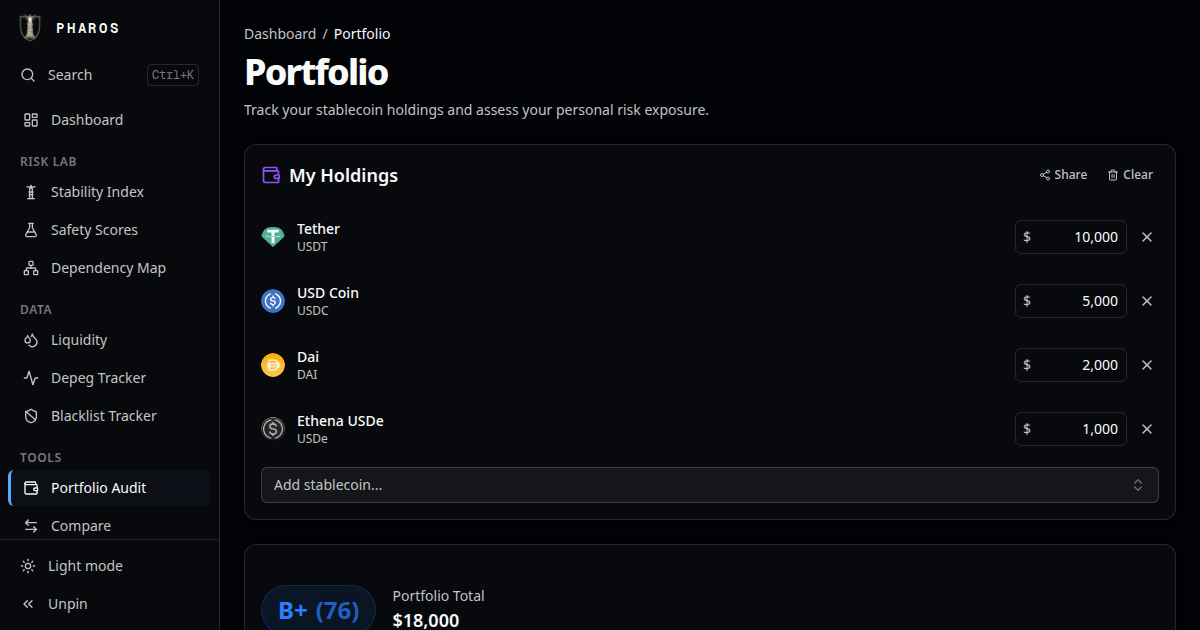
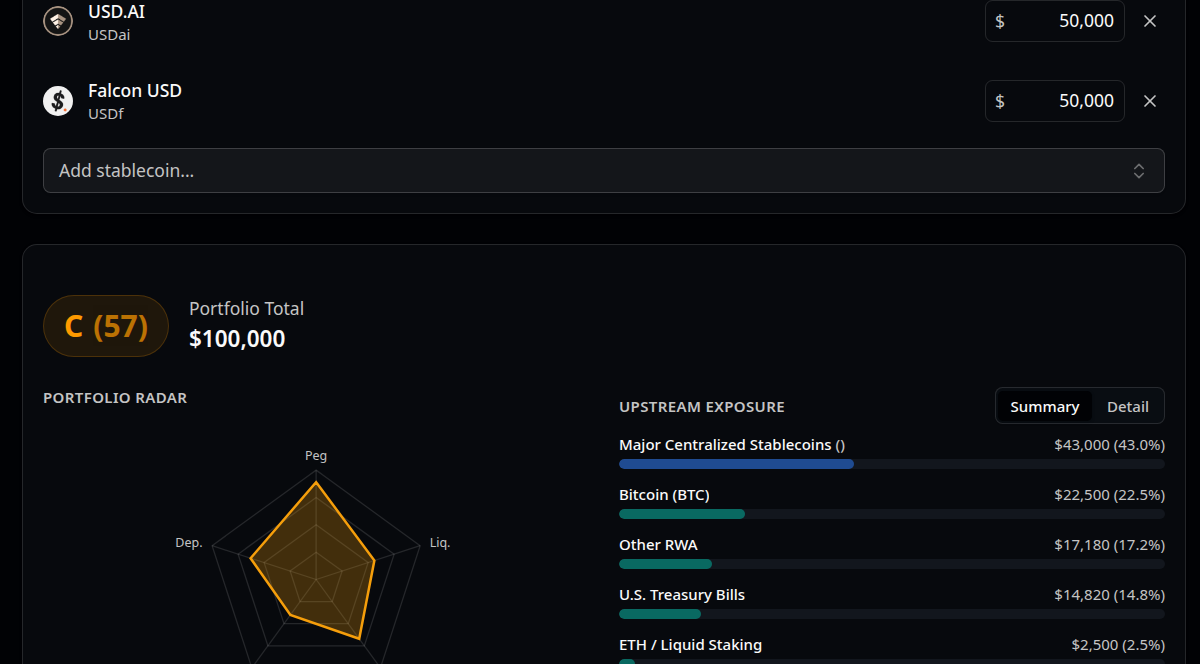
Docs organization

diff --git a/src/lib/__tests__/dews-radar-utils.test.ts b/src/lib/__tests__/dews-radar-utils.test.ts
@@ -3,6 +3,7 @@ import { describe, it, expect } from "vitest";
 import {
   scoreToRadius,
   deterministicOffset,
+  deterministicRadiusOffset,
   distributeAngles,
   highestBand,
   sweepDuration,

diff --git a/docs/plans/implemented/2026-03-02-feature-status-badge.md b/docs/plans/implemented/2026-03-02-feature-status-badge.md
@@ -1,0 +1,257 @@
+# Feature Status Badge Implementation Plan
+
+> **For Claude:** REQUIRED SUB-SKILL: Use superpowers:executing-plans to implement this plan task-by-task.
+
+**Goal:** Add a visible "Feature Status" badge (Mature / Experimental / Testing in Prod) inline next to the h1 title on 10 feature pages, with an optional version badge for /safety-scores.
+
+**Architecture:** Single shared `FeatureStatusBadge` component accepts `status` and optional `version` props. Each page imports it and renders it inline inside the h1 element (h1 becomes a flex container). No runtime logic — all status values are static strings baked into each page at build time.
+
+**Tech Stack:** React 19, TypeScript strict, Tailwind CSS v4, shadcn/ui `Badge` component.
+
+---
+
+## Status Reference
+
+| Page | File | Status | Version |
+|---|---|---|---|
+| `/stability-index` | `src/app/stability-index/page.tsx:39` | `mature` | — |
+| `/safety-scores` | `src/app/safety-scores/page.tsx:42` | `mature` | `v5.4` |
+| `/dependency-map` | `src/app/dependency-map/page.tsx:40` | `experimental` | — |
+| `/liquidity` | `src/app/liquidity/page.tsx:42` | `mature` | — |
+| `/depeg` | `src/app/depeg/page.tsx:77` | `mature` | — |
+| `/blacklist` | `src/app/blacklist/page.tsx:82` | `mature` | — |
+| `/portfolio` | `src/app/portfolio/page.tsx:40` | `experimental` | — |
+| `/compare` | `src/app/compare/page.tsx:50` | `mature` | — |
+| `/yield` | `src/app/yield/page.tsx:76` | `testing-in-prod` | — |
+| `/flows` | `src/app/flows/page.tsx:42` | `testing-in-prod` | — |
+
+---
+
+### Task 1: Create FeatureStatusBadge component
+
+**Files:**
+- Create: `src/components/feature-status-badge.tsx`
+
+**Step 1: Create the component**
+
+```tsx
+import { Badge } from "@/components/ui/badge";
+
+type FeatureStatus = "mature" | "experimental" | "testing-in-prod";
+
+const STATUS_CONFIG: Record<FeatureStatus, { label: string; className: string }> = {
+  mature: {
+    label: "Mature",
+    className:
+      "bg-emerald-500/15 text-emerald-700 border-emerald-500/30 dark:text-emerald-400 dark:border-emerald-500/40",
+  },
+  experimental: {
+    label: "Experimental",
+    className:
+      "bg-amber-500/15 text-amber-700 border-amber-500/30 dark:text-amber-400 dark:border-amber-500/40",
+  },
+  "testing-in-prod": {
+    label: "Testing in Prod",
+    className:
+      "bg-orange-500/15 text-orange-700 border-orange-500/30 dark:text-orange-400 dark:border-orange-500/40",
+  },
+};
+
+interface FeatureStatusBadgeProps {
+  status: FeatureStatus;
+  version?: string;
+}
+
+export function FeatureStatusBadge({ status, version }: FeatureStatusBadgeProps) {
+  const { label, className } = STATUS_CONFIG[status];
+  return (
+    <span className="inline-flex items-center gap-1.5 font-normal text-base">
+      <Badge variant="outline" className={className}>
+        {label}
+      </Badge>
+      {version && (
+        <Badge
+          variant="outline"
+          className="bg-muted/50 text-muted-foreground border-border/60"
+        >
+          {version}
+        </Badge>
+      )}
+    </span>
+  );
+}
+```
+
+**Step 2: Type-check**
+
+Run: `npm run build 2>&1 | head -30`
+Expected: No TypeScript errors related to the new file.
+
+**Step 3: Commit**
+
+```bash
+git add src/components/feature-status-badge.tsx
+git commit -m "feat: add FeatureStatusBadge component"
+```
+
+---
+
+### Task 2: Update first 5 pages
+
+**Files:**
+- Modify: `src/app/stability-index/page.tsx:39`
+- Modify: `src/app/safety-scores/page.tsx:42`
+- Modify: `src/app/dependency-map/page.tsx:40`
+- Modify: `src/app/liquidity/page.tsx:42`
+- Modify: `src/app/depeg/page.tsx:77`
+
+For each file: add the import at the top, then update the h1.
+
+**Pattern — import to add (after existing imports):**
+```tsx
+import { FeatureStatusBadge } from "@/components/feature-status-badge";
+```
+
+**Pattern — h1 before:**
+```tsx
+<h1 className="text-4xl font-extrabold tracking-tighter">Page Title</h1>
+```
+
+**Pattern — h1 after:**
+```tsx
+<h1 className="text-4xl font-extrabold tracking-tighter flex items-center gap-3">
+  Page Title <FeatureStatusBadge status="mature" />
+</h1>
+```
+
+**Step 1: Update stability-index/page.tsx**
+
+h1 line 39 becomes:
+```tsx
+<h1 className="text-4xl font-extrabold tracking-tighter flex items-center gap-3">Pharos Stability Index <FeatureStatusBadge status="mature" /></h1>
+```
+
+**Step 2: Update safety-scores/page.tsx**
+
+h1 line 42 becomes (note: version prop):
+```tsx
+<h1 className="text-4xl font-extrabold tracking-tighter flex items-center gap-3">Safety Scores <FeatureStatusBadge status="mature" version="v5.4" /></h1>
+```
+
+**Step 3: Update dependency-map/page.tsx**
+
+h1 line 40 becomes:
+```tsx
+<h1 className="text-4xl font-extrabold tracking-tighter flex items-center gap-3">Dependency Map <FeatureStatusBadge status="experimental" /></h1>
+```
+
+**Step 4: Update liquidity/page.tsx**
+
+h1 line 42 becomes:
+```tsx
+<h1 className="text-4xl font-extrabold tracking-tighter flex items-center gap-3">DEX Liquidity <FeatureStatusBadge status="mature" /></h1>
+```
+
+**Step 5: Update depeg/page.tsx**
+
+h1 line 77 becomes:
+```tsx
+<h1 className="text-4xl font-extrabold tracking-tighter flex items-center gap-3">Depeg Tracker <FeatureStatusBadge status="mature" /></h1>
+```
+
+**Step 6: Type-check**
+
+Run: `npm run build 2>&1 | head -30`
+Expected: No errors.
+
+**Step 7: Commit**
+
+```bash
+git add src/app/stability-index/page.tsx src/app/safety-scores/page.tsx src/app/dependency-map/page.tsx src/app/liquidity/page.tsx src/app/depeg/page.tsx
+git commit -m "feat: add feature status badges to stability-index, safety-scores, dependency-map, liquidity, depeg"
+```
+
+---
+
+### Task 3: Update remaining 5 pages
+
+**Files:**
+- Modify: `src/app/blacklist/page.tsx:82`
+- Modify: `src/app/portfolio/page.tsx:40`
+- Modify: `src/app/compare/page.tsx:50`
+- Modify: `src/app/yield/page.tsx:76`
+- Modify: `src/app/flows/page.tsx:42`
+
+Same import + h1 pattern as Task 2.
+
+**Step 1: Update blacklist/page.tsx**
+
+h1 line 82 becomes:
+```tsx
+<h1 className="text-4xl font-extrabold tracking-tighter flex items-center gap-3">Blacklist Tracker <FeatureStatusBadge status="mature" /></h1>
+```
+
+**Step 2: Update portfolio/page.tsx**
+
+h1 line 40 becomes:
+```tsx
+<h1 className="text-4xl font-extrabold tracking-tighter flex items-center gap-3">Portfolio <FeatureStatusBadge status="experimental" /></h1>
+```
+
+**Step 3: Update compare/page.tsx**
+
+h1 line 50 becomes:
+```tsx
+<h1 className="text-4xl font-extrabold tracking-tighter flex items-center gap-3">Compare Stablecoins <FeatureStatusBadge status="mature" /></h1>
+```
+
+**Step 4: Update yield/page.tsx**
+
+h1 line 76 becomes:
+```tsx
+<h1 className="text-4xl font-extrabold tracking-tighter flex items-center gap-3">Yield Intelligence <FeatureStatusBadge status="testing-in-prod" /></h1>
+```
+
+**Step 5: Update flows/page.tsx**
+
+h1 line 42 becomes:
+```tsx
+<h1 className="text-4xl font-extrabold tracking-tighter flex items-center gap-3">Mint/Burn Flows <FeatureStatusBadge status="testing-in-prod" /></h1>
+```
+
+**Step 6: Type-check**
+
+Run: `npm run build 2>&1 | head -30`
+Expected: No errors.
+
+**Step 7: Commit**
+
+```bash
+git add src/app/blacklist/page.tsx src/app/portfolio/page.tsx src/app/compare/page.tsx src/app/yield/page.tsx src/app/flows/page.tsx
+git commit -m "feat: add feature status badges to blacklist, portfolio, compare, yield, flows"
+```
+
+---
+
+### Task 4: Full build verification
+
+**Step 1: Run full build**
+
+```bash
+npm run build 2>&1 | tail -20
+```
+Expected: Successful build, no TypeScript errors, no missing module errors.
+
+**Step 2: Run lint**
+
+```bash
+npm run lint 2>&1 | tail -20
+```
+Expected: No new lint errors.
+
+**Step 3: Run tests**
+
+```bash
+npm test 2>&1 | tail -10
+```
+Expected: All existing tests pass.

diff --git a/docs/plans/implemented/2026-03-02-feature-status-badge-design.md b/docs/plans/implemented/2026-03-02-feature-status-badge-design.md
@@ -1,0 +1,51 @@
+# Feature Status Badge — Design Doc
+
+**Date:** 2026-03-02
+**Status:** Approved
+
+## Problem
+
+As features are iterated on in production, users have no signal about the maturity of a given page/feature. Adding a visible status indicator helps set expectations.
+
+## Solution
+
+A shared `FeatureStatusBadge` component placed inline next to the h1 title on each feature page.
+
+## Component
+
+**File:** `src/components/feature-status-badge.tsx`
+
+**Props:**
+- `status: 'mature' | 'experimental' | 'testing-in-prod'`
+- `version?: string` — optional version string (safety-scores only, currently `v5.4`)
+
+**Color scheme:**
+| Status | Background | Text | Border |
+|---|---|---|---|
+| Mature | `bg-emerald-500/15` | `text-emerald-700` | `border-emerald-500/30` |
+| Experimental | `bg-amber-500/15` | `text-amber-700` | `border-amber-500/30` |
+| Testing in Prod | `bg-orange-500/15` | `text-orange-700` | `border-orange-500/30` |
+
+**Version display:** When `version` is provided, renders two adjacent badges: `[Mature] [v5.4]`.
+
+**Placement:** Inline in the h1 element using `flex items-center gap-3` on the h1.
+
+## Status Assignments
+
+| Page | Status | Version |
+|---|---|---|
+| `/stability-index` | Mature | — |
+| `/safety-scores` | Mature | v5.4 |
+| `/dependency-map` | Experimental | — |
+| `/liquidity` | Mature | — |
+| `/depeg` | Mature | — |
+| `/blacklist` | Mature | — |
+| `/portfolio` | Experimental | — |
+| `/compare` | Mature | — |
+| `/yield` | Testing in Prod | — |
+| `/flows` | Testing in Prod | — |
+
+## Implementation Steps
+
+1. Create `src/components/feature-status-badge.tsx`
+2. Update each of the 10 page files to import and use the badge inline in h1
